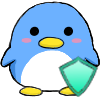
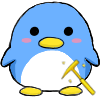
画像の追加・音の追加

Changed region(s): [[0.57, 0.54, 0.99, 0.99]]

diff --git a/CrushIceGame/src/Warp.java b/CrushIceGame/src/Warp.java
@@ -23,7 +23,8 @@ public class Warp extends Item {
 		}
 		Random random = new Random();
 		int rand = icesNum.get(random.nextInt(icesNum.size()));
-		MesgSend.getInstance().send("move" + " " + ices.getIces()[rand / ices.getIcesX()][rand % ices.getIcesX()].getX() + " " + ices.getIces()[rand / ices.getIcesX()][rand % ices.getIcesX()].getY());
-		Sound.getInstance().play("item");
+		MesgSend ms = MesgSend.getInstance();
+		ms.send("move" + " " + ices.getIces()[rand / ices.getIcesX()][rand % ices.getIcesX()].getX() + " " + ices.getIces()[rand / ices.getIcesX()][rand % ices.getIcesX()].getY());
+		ms.send("changePenguinIcon" + " " + 4);
 	}
 }

diff --git a/CrushIceGame/src/Penguin.java b/CrushIceGame/src/Penguin.java
@@ -13,7 +13,9 @@ public class Penguin {
 		penguinIcons = new ImageIcon[] {
 				new ImageIcon(rl.load("img/penguin.png")),
 				new ImageIcon(rl.load("img/penguin_2.png")),
-				new ImageIcon(rl.load("img/penguin_3.png"))
+				new ImageIcon(rl.load("img/penguin_3.png")),
+				new ImageIcon(rl.load("img/penguin_4.png")),
+				new ImageIcon(rl.load("img/penguin_5.png"))
 		};
 		penguinLabel = new JLabel(penguinIcons[0]);
 		fallFlag = false;

diff --git a/CrushIceGame/src/Game.java b/CrushIceGame/src/Game.java
@@ -80,7 +80,10 @@ public class Game {
 							break;
 						case "getItem":
 							gs.getItemManager().getItems().get(inputTokens[1]).getItem();
+							sound.play("item");
 							break;
+						case "useItem":
+							sound.play("item");
 						case "move":
 							gs.getPenguin().penguinMove(Integer.parseInt(inputTokens[1]), Integer.parseInt(inputTokens[2]));
 							break;

diff --git a/CrushIceGame/src/Shield.java b/CrushIceGame/src/Shield.java
@@ -8,8 +8,7 @@ public class Shield extends Item {
 	public void use() {
 		System.out.println("shield");
 		GameScreen.getInstance().getIces().setShieldFlag(true);
-		MesgSend.getInstance().send("changePenguinIcon" + " " + 2);
-		Sound.getInstance().play("item");
+		MesgSend.getInstance().send("changePenguinIcon" + " " + 3);
 	}
 
 }

diff --git a/CrushIceGame/src/GoldenHammer.java b/CrushIceGame/src/GoldenHammer.java
@@ -16,7 +16,7 @@ public class GoldenHammer extends Item {
 		System.out.println("goldenHammer");
 		Hammer.getInstance().changeHammer(ghIcons);
 		GameScreen.getInstance().getIces().setGhFlag(true);
-		Sound.getInstance().play("item");
+		MesgSend.getInstance().send("changePenguinIcon" + " " + 2);
 	}
 
 }

diff --git a/CrushIceGame/src/ItemManager.java b/CrushIceGame/src/ItemManager.java
@@ -140,6 +140,7 @@ public class ItemManager implements MouseListener, MouseMotionListener {
 		jb.setVisible(false);
 		itemButtons.remove(jb);
 		items.get(itemName).use();
+		ms.send("useItem");
 		realignItemButtons();
 		count--;
 	}
